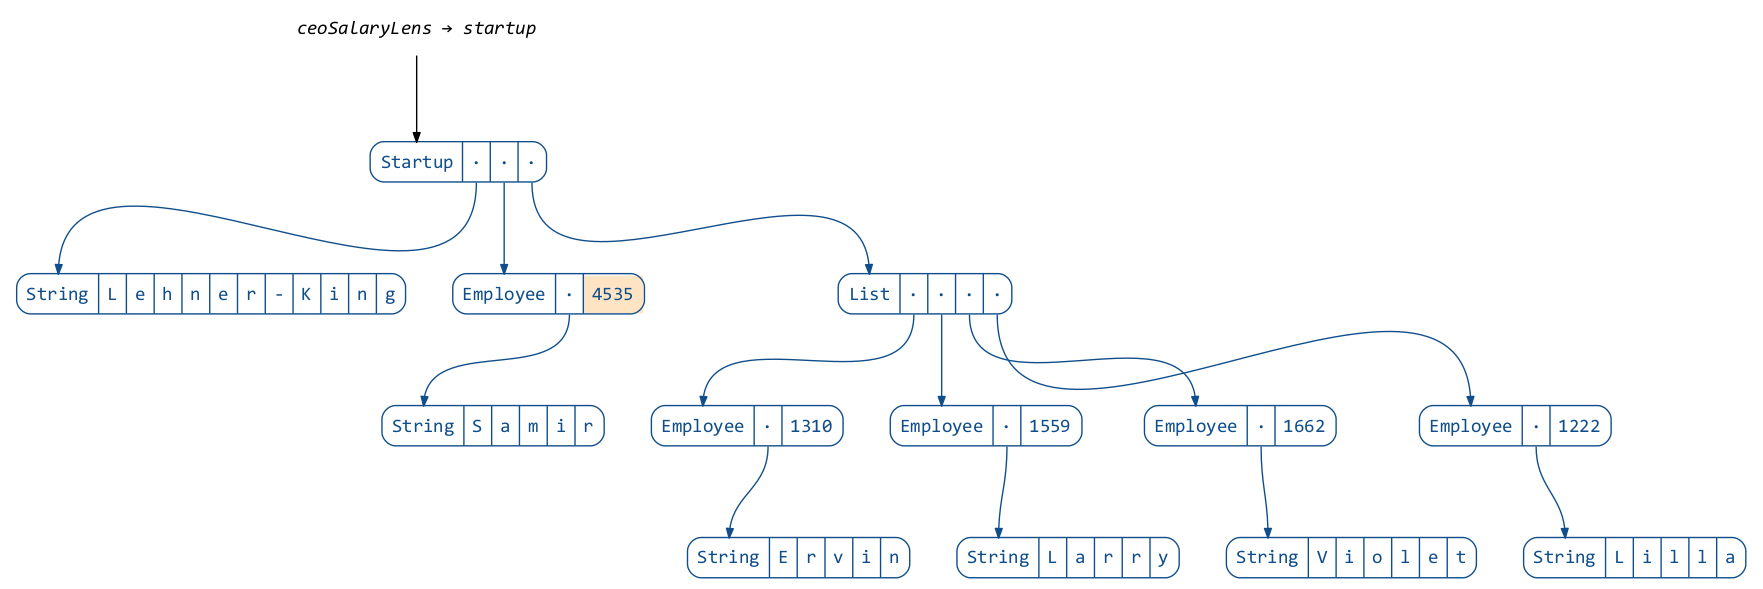
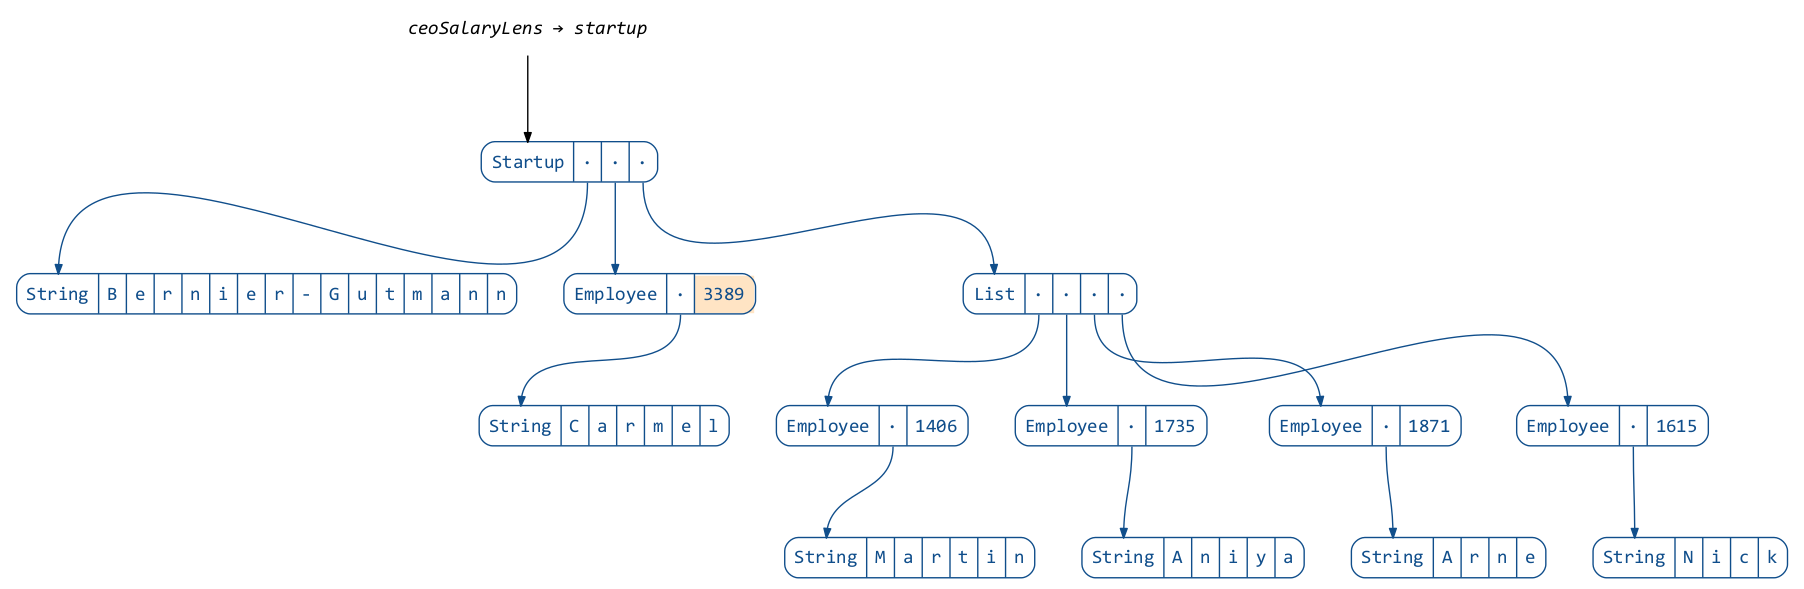
Add color interpolation for animations

diff --git a/DEMO.md b/DEMO.md
@@ -66,10 +66,10 @@ case class Employee(
 
 ```scala
 scala> val employee = employees.sample.get
-employee: reftree.demo.Data.Employee = Employee(Jamar,1795)
+employee: reftree.demo.Data.Employee = Employee(Hattie,1618)
 
 scala> val raisedEmployee = employee.copy(salary = employee.salary + 10)
-raisedEmployee: reftree.demo.Data.Employee = Employee(Jamar,1805)
+raisedEmployee: reftree.demo.Data.Employee = Employee(Hattie,1628)
 ```
 
 However once composition comes into play, the resulting nested immutable data structures
@@ -90,14 +90,14 @@ case class Startup(
 
 ```scala
 scala> val startup = startups.sample.get
-startup: reftree.demo.Data.Startup = Startup(Lehner-King,Employee(Samir,4535),List(Employee(Ervin,1310), Employee(Larry,1559), Employee(Violet,1662), Employee(Lilla,1222)))
+startup: reftree.demo.Data.Startup = Startup(Bernier-Gutmann,Employee(Carmel,3389),List(Employee(Martin,1406), Employee(Aniya,1735), Employee(Arne,1871), Employee(Nick,1615)))
 
 scala> val raisedCeo = startup.copy(
      |   ceo = startup.ceo.copy(
      |     salary = startup.ceo.salary + 10
      |   )
      | )
-raisedCeo: reftree.demo.Data.Startup = Startup(Lehner-King,Employee(Samir,4545),List(Employee(Ervin,1310), Employee(Larry,1559), Employee(Violet,1662), Employee(Lilla,1222)))
+raisedCeo: reftree.demo.Data.Startup = Startup(Bernier-Gutmann,Employee(Carmel,3399),List(Employee(Martin,1406), Employee(Aniya,1735), Employee(Arne,1871), Employee(Nick,1615)))
 ```
 
 ```scala
@@ -131,13 +131,13 @@ import monocle.macros.GenLens
 
 scala> val salaryLens = GenLens[Employee](_.salary)
 warning: there was one feature warning; re-run with -feature for details
-salaryLens: monocle.Lens[reftree.demo.Data.Employee,Long] = $anon$1@38a6ff15
+salaryLens: monocle.Lens[reftree.demo.Data.Employee,Long] = $anon$1@204fc1e7
 
 scala> salaryLens.get(startup.ceo)
-res4: Long = 4535
+res4: Long = 3389
 
 scala> salaryLens.modify(s => s + 10)(startup.ceo)
-res5: reftree.demo.Data.Employee = Employee(Samir,4545)
+res5: reftree.demo.Data.Employee = Employee(Carmel,3399)
 ```
 
 ```scala
@@ -151,10 +151,10 @@ We can also define a lens that focuses on the startup’s CEO:
 ```scala
 scala> val ceoLens = GenLens[Startup](_.ceo)
 warning: there was one feature warning; re-run with -feature for details
-ceoLens: monocle.Lens[reftree.demo.Data.Startup,reftree.demo.Data.Employee] = $anon$1@3c4ea118
+ceoLens: monocle.Lens[reftree.demo.Data.Startup,reftree.demo.Data.Employee] = $anon$1@19bb0b36
 
 scala> ceoLens.get(startup)
-res7: reftree.demo.Data.Employee = Employee(Samir,4535)
+res7: reftree.demo.Data.Employee = Employee(Carmel,3389)
 ```
 
 ```scala
@@ -167,13 +167,13 @@ It’s not apparent yet how this would help, but the trick is that lenses can be
 
 ```scala
 scala> val ceoSalaryLens = ceoLens composeLens salaryLens
-ceoSalaryLens: monocle.PLens[reftree.demo.Data.Startup,reftree.demo.Data.Startup,Long,Long] = monocle.PLens$$anon$1@3bb9d624
+ceoSalaryLens: monocle.PLens[reftree.demo.Data.Startup,reftree.demo.Data.Startup,Long,Long] = monocle.PLens$$anon$1@6b5b2499
 
 scala> ceoSalaryLens.get(startup)
-res9: Long = 4535
+res9: Long = 3389
 
 scala> ceoSalaryLens.modify(s => s + 10)(startup)
-res10: reftree.demo.Data.Startup = Startup(Lehner-King,Employee(Samir,4545),List(Employee(Ervin,1310), Employee(Larry,1559), Employee(Violet,1662), Employee(Lilla,1222)))
+res10: reftree.demo.Data.Startup = Startup(Bernier-Gutmann,Employee(Carmel,3399),List(Employee(Martin,1406), Employee(Aniya,1735), Employee(Arne,1871), Employee(Nick,1615)))
 ```
 
 ```scala
@@ -196,13 +196,13 @@ We can use it to give our CEO a funny name:
 ```scala
 scala> val employeeNameLens = GenLens[Employee](_.name)
 warning: there was one feature warning; re-run with -feature for details
-employeeNameLens: monocle.Lens[reftree.demo.Data.Employee,String] = $anon$1@1ee31d20
+employeeNameLens: monocle.Lens[reftree.demo.Data.Employee,String] = $anon$1@6d65b256
 
 scala> val ceoVowelLens = ceoLens composeLens employeeNameLens composeTraversal vowelLens
-ceoVowelLens: monocle.PTraversal[reftree.demo.Data.Startup,reftree.demo.Data.Startup,Char,Char] = monocle.PTraversal$$anon$2@40feb650
+ceoVowelLens: monocle.PTraversal[reftree.demo.Data.Startup,reftree.demo.Data.Startup,Char,Char] = monocle.PTraversal$$anon$2@6516f26a
 
 scala> ceoVowelLens.modify(v => v.toUpper)(startup)
-res13: reftree.demo.Data.Startup = Startup(Lehner-King,Employee(SAmIr,4535),List(Employee(Ervin,1310), Employee(Larry,1559), Employee(Violet,1662), Employee(Lilla,1222)))
+res13: reftree.demo.Data.Startup = Startup(Bernier-Gutmann,Employee(CArmEl,3389),List(Employee(Martin,1406), Employee(Aniya,1735), Employee(Arne,1871), Employee(Nick,1615)))
 ```
 
 ```scala
@@ -222,7 +222,7 @@ scala> import com.softwaremill.quicklens._
 import com.softwaremill.quicklens._
 
 scala> val raisedCeo = startup.modify(_.ceo.salary).using(s => s + 10)
-raisedCeo: reftree.demo.Data.Startup = Startup(Lehner-King,Employee(Samir,4545),List(Employee(Ervin,1310), Employee(Larry,1559), Employee(Violet,1662), Employee(Lilla,1222)))
+raisedCeo: reftree.demo.Data.Startup = Startup(Bernier-Gutmann,Employee(Carmel,3399),List(Employee(Martin,1406), Employee(Aniya,1735), Employee(Arne,1871), Employee(Nick,1615)))
 ```
 
 You might think this is approaching the syntax for updating mutable data,
@@ -231,7 +231,7 @@ but actually we have already surpassed it, since lenses are much more flexible:
 
 ```scala
 scala> val raisedEveryone = startup.modifyAll(_.ceo.salary, _.team.each.salary).using(s => s + 10)
-raisedEveryone: reftree.demo.Data.Startup = Startup(Lehner-King,Employee(Samir,4545),List(Employee(Ervin,1320), Employee(Larry,1569), Employee(Violet,1672), Employee(Lilla,1232)))
+raisedEveryone: reftree.demo.Data.Startup = Startup(Bernier-Gutmann,Employee(Carmel,3399),List(Employee(Martin,1416), Employee(Aniya,1745), Employee(Arne,1881), Employee(Nick,1625)))
 ```
 
 
